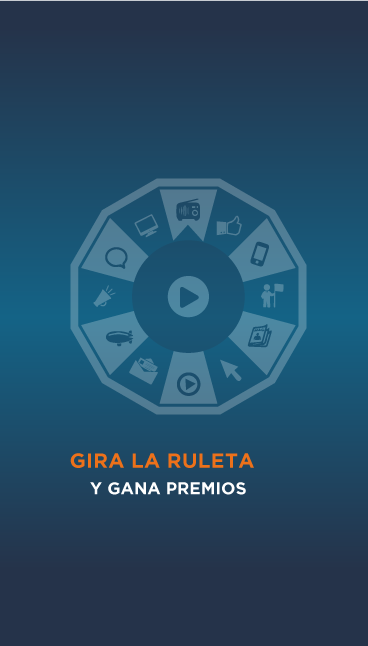
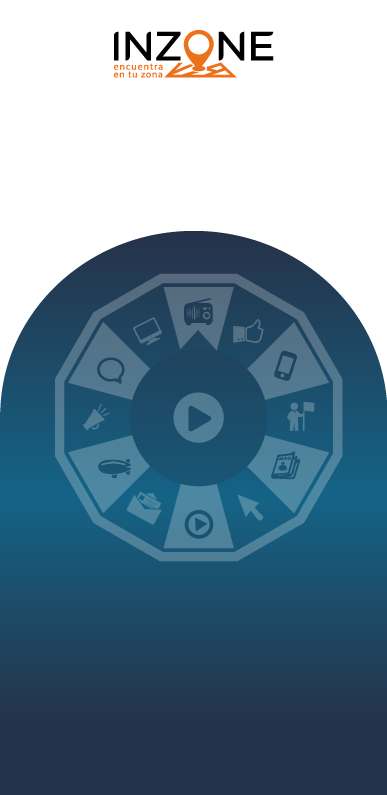
cambio portada

diff --git a/www/css/index.css b/www/css/index.css
@@ -131,11 +131,11 @@ color: #ffffff;
     text-shadow: #000000 2px 3px 1px;
     }
 .portada .page__background{
-  background: url(../img/fondo_n.jpg) #195675 center center no-repeat !important;
+  background: url(../img/fondo_n.png) #195675 top center no-repeat !important;
   background-size: cover;
 }
-.logo{
-  /*background: url('../img/cabecera.png') no-repeat top center;*/
+/*.logo{
+  /*background: url('../img/cabecera.png') no-repeat top center;
   max-height: 205px;
   height: 205px;
   width: 100%;
@@ -147,12 +147,12 @@ color: #ffffff;
   position: relative;
   top: 30px;
   margin: 0 auto;
-}
+}*/
 .homeUno{
   text-align: center;
   min-height: 170px;
   position: relative;
-  top: 200px;
+  top: 120px;
 }
 .homeUno ons-button{width: 33%; float: left; border-radius: 0 !important; padding: 0 !important;border: none;}
 .imagenHome{background: url(../img/imgmapa.png) center top no-repeat; width: 100%; height: 155px; background-size: contain;}

diff --git a/www/index.html b/www/index.html
@@ -310,9 +310,9 @@
     </ons-page>
         <ons-template id="page1.html">
           <ons-page ng-controller="homeCtl" class="portada">
-            <div class="center logo"><img ng-src="img/logo.png"></div>
+            <div class="center logo"><!-- <img ng-src="img/logo.png"> --></div>
             <div class="homeUno">
-              <div class="tituloHome"><p>BUSCA NEGOCIO POR:</p></div>
+              <!-- <div class="tituloHome"><p>BUSCA NEGOCIO POR:</p></div> -->
               <div class="botonesHome">
               <ons-button class="borde_home" modifier="outline" onclick="menu.setMainPage('lista.html', {closeMenu: true})"><img ng-src="img/cercademi.png" alt=""></ons-button>
               <ons-button modifier="outline" onclick="menu.setMainPage('categorias.html', {closeMenu: true})"><img ng-src="img/categoria.png" alt=""></ons-button>
